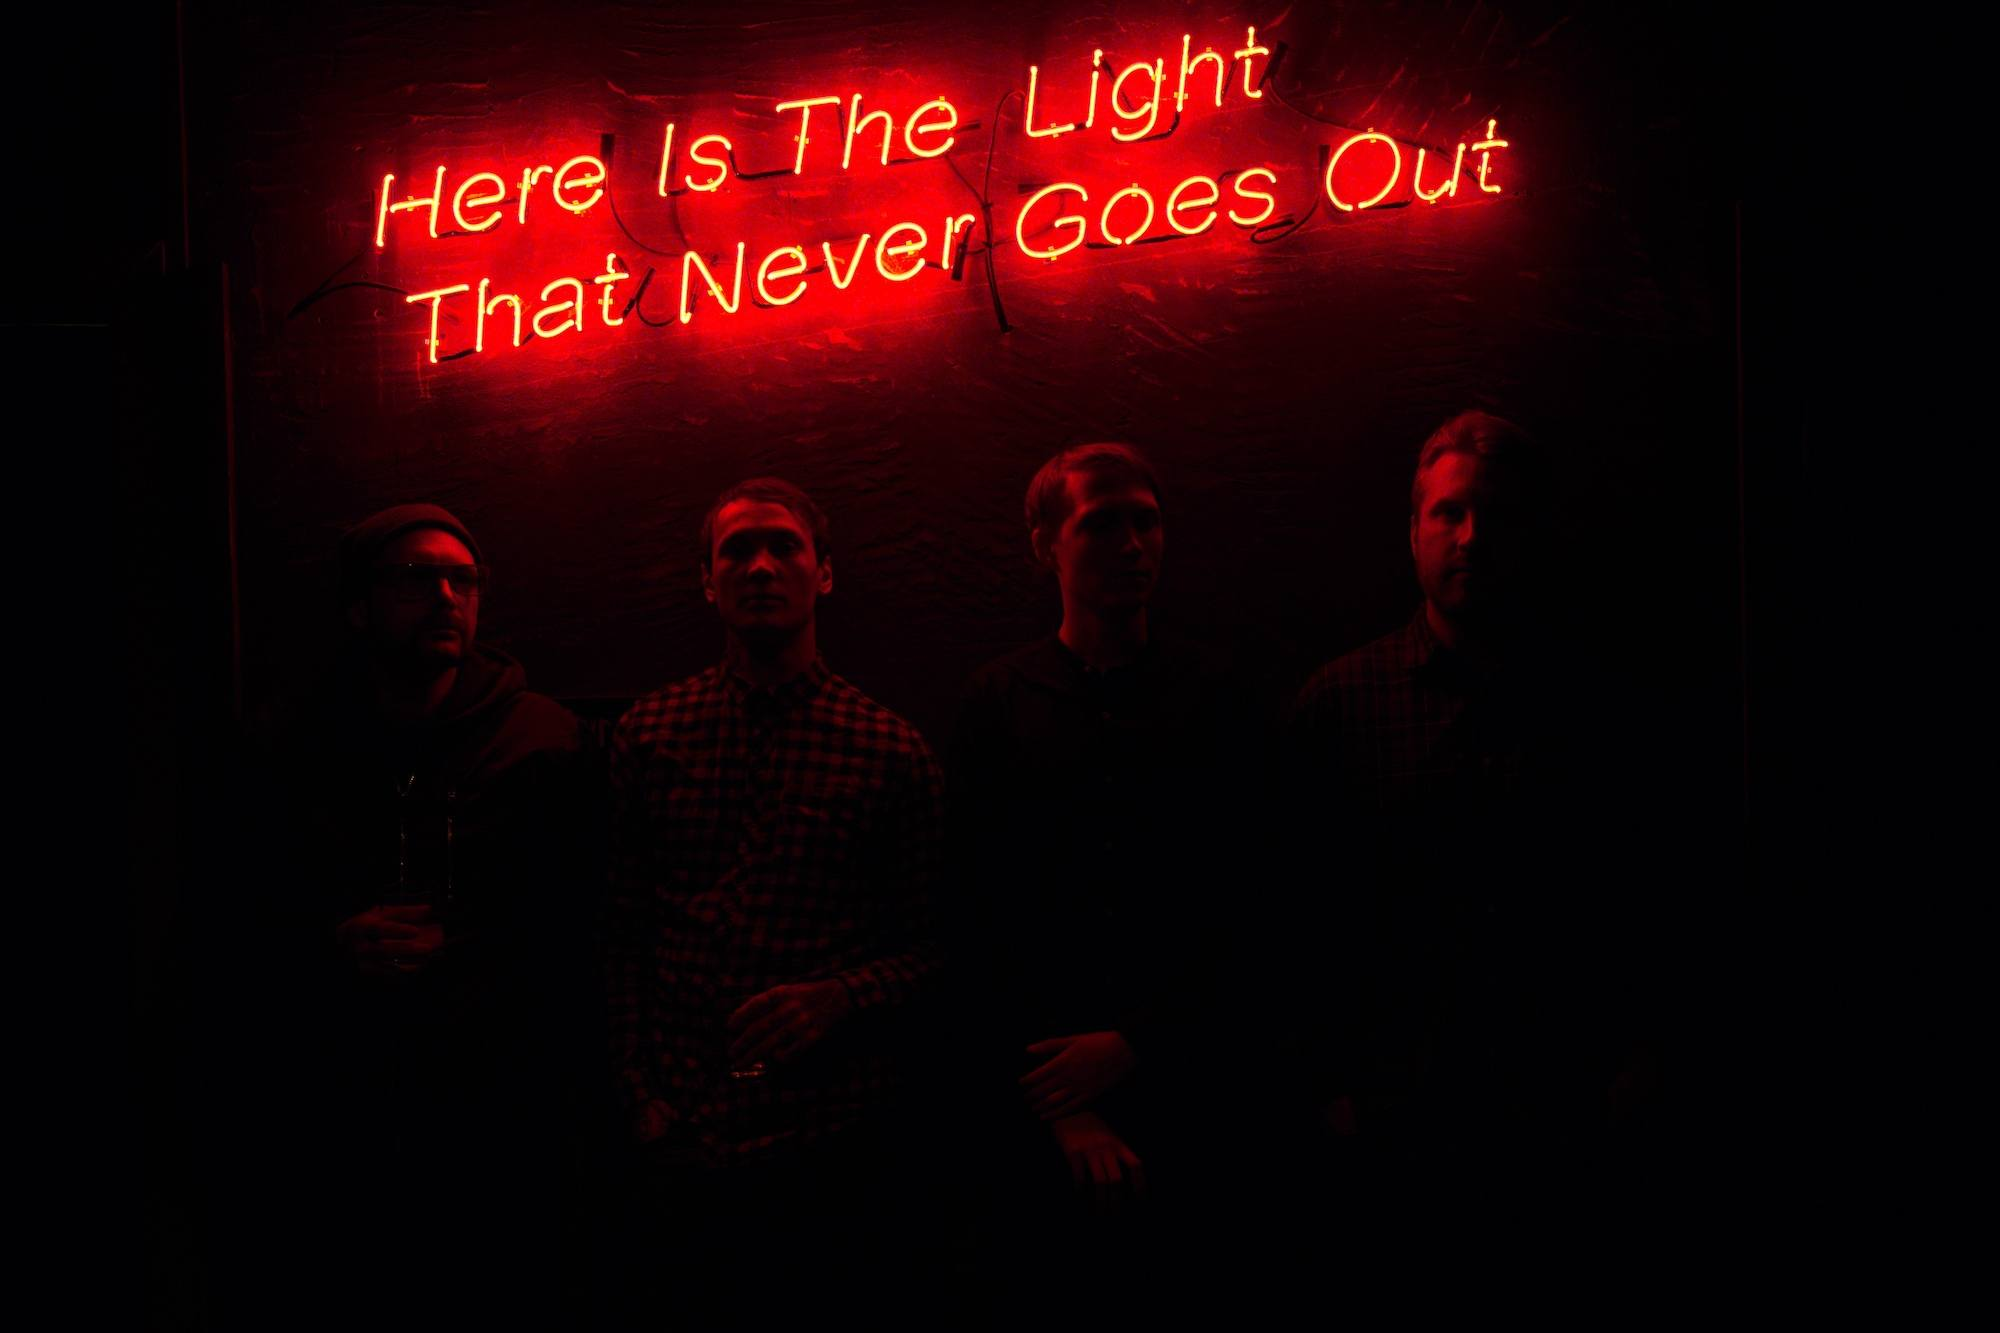
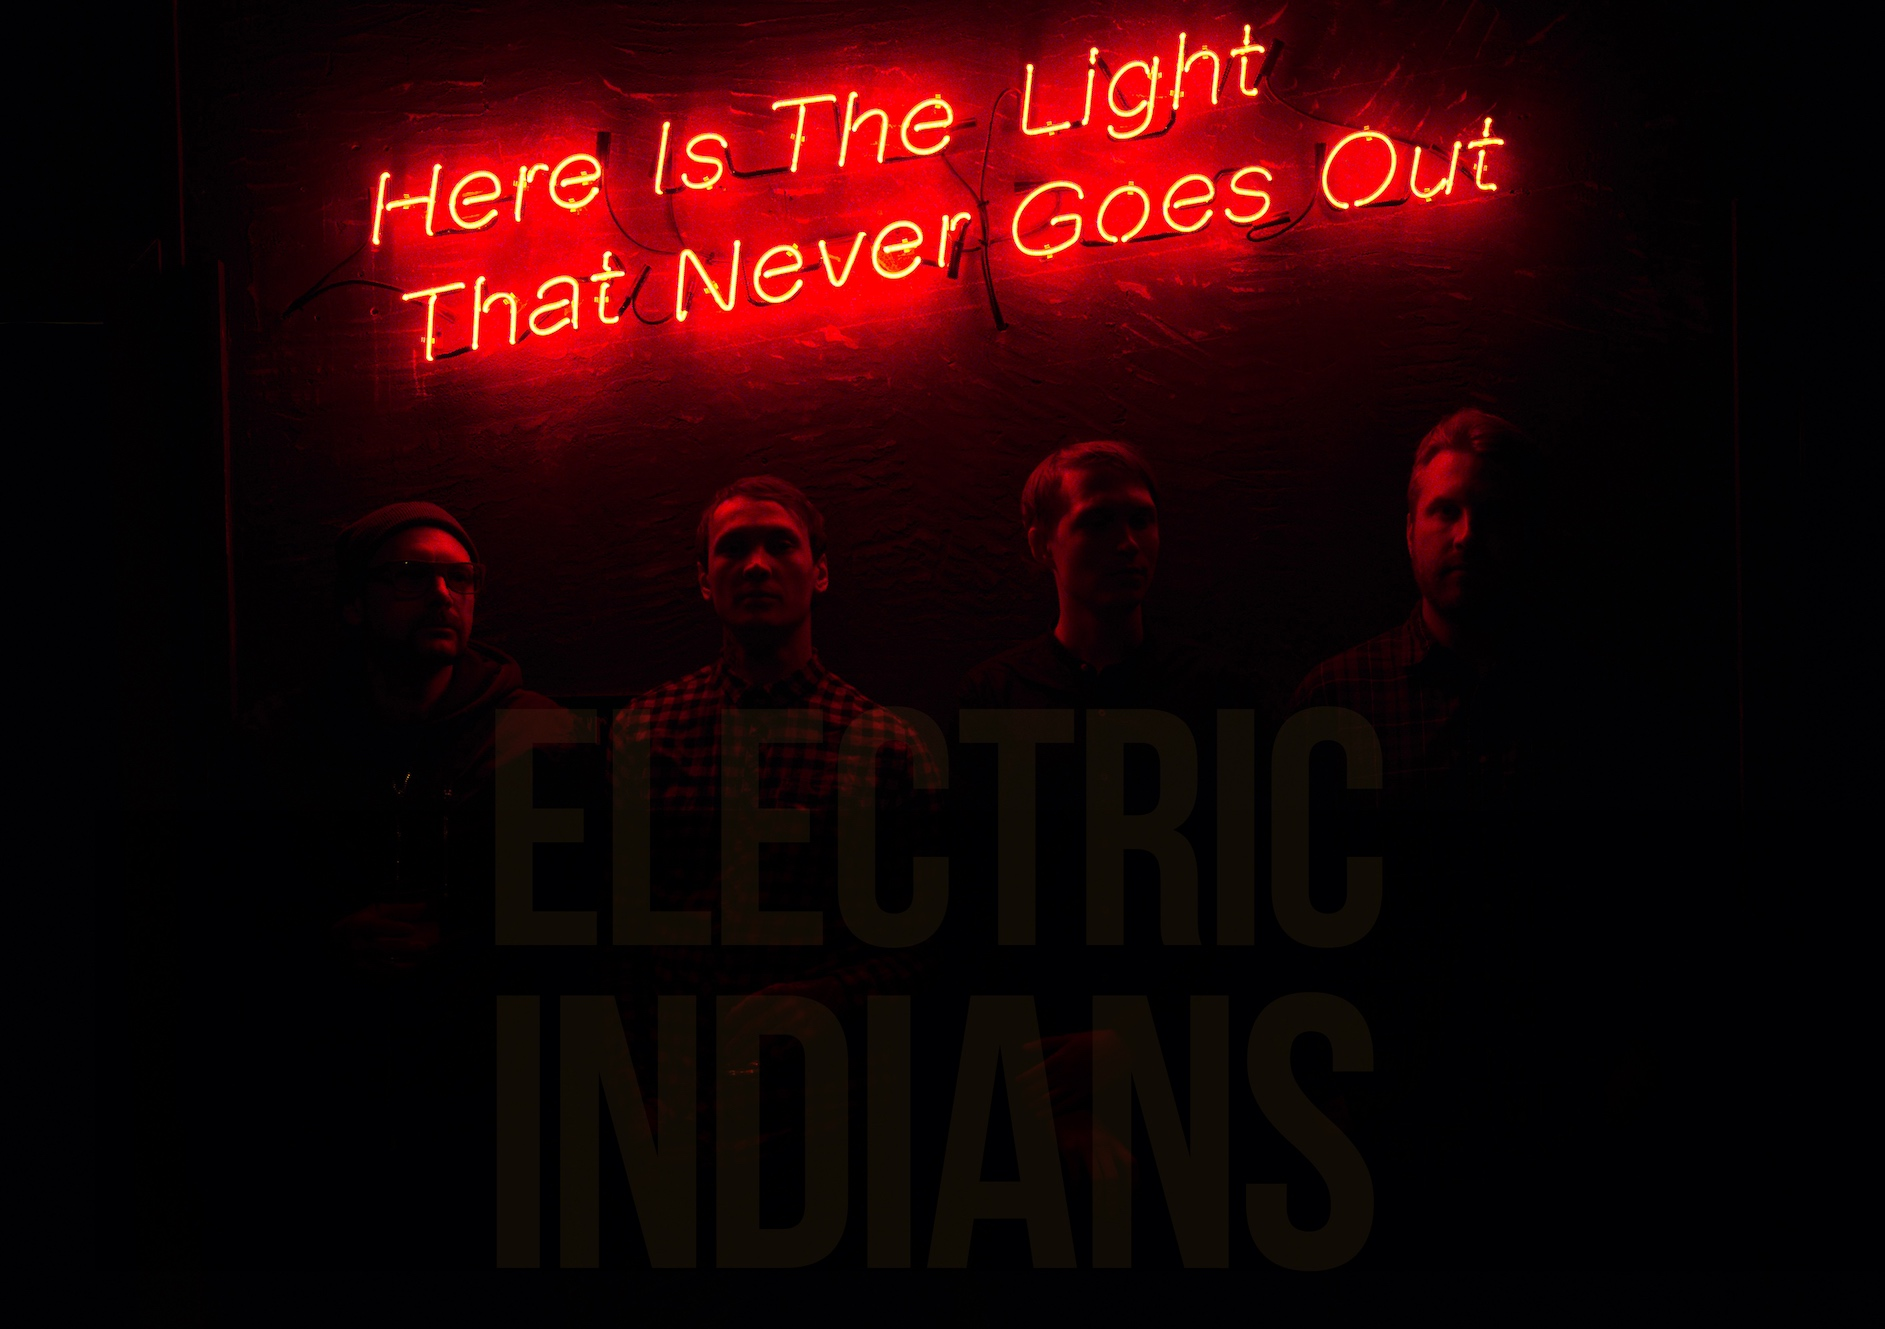
- Changed weclome bg, optimized header

diff --git a/src/components/Welcome/Welcome.js b/src/components/Welcome/Welcome.js
@@ -11,32 +11,36 @@ import { Container, Row } from "react-bootstrap";
 class Welcome extends Component {
   render() {
     return (
-      <div id="welcome" className="Welcome">
-        <Container>
-          <Row className="Welcome__logo-container align-content-center justify-content-around ">
-            <a href="https://www.instagram.com/electricindians/" target="blank">
-              <img className="Welcome__logo" src={instagram} />
-            </a>
-            <a href="https://www.facebook.com/electricindians/" target="blank">
-              <img className="Welcome__logo" src={facebook} />
-            </a>
-            <a href="https://vk.com/electricindians" target="blank">
-              <img className="Welcome__logo" src={vk} />
-            </a>
-            <a
-              href="https://www.youtube.com/channel/UCab_uVuxFhrwyARbotaz4Tg"
-              target="blank"
-            >
-              <img className="Welcome__logo" src={youtube} />
-            </a>
-            <a href="https://electricindians.bandcamp.com/" target="blank">
-              <img className="Welcome__logo" src={bandcamp} />
-            </a>
-            <a href="https://twitter.com/Electricindian2" target="blank">
-              <img className="Welcome__logo" src={twitter} />
-            </a>
-          </Row>
-        </Container>
+      <div>
+        <div id="welcome" className="Welcome">
+        </div>
+        <div className="Welcome__logo-container">
+          <Container >
+            <Row className="Welcome__logo-container-wrap align-content-center justify-content-around ">
+              <a href="https://www.instagram.com/electricindians/" target="blank">
+                <img className="Welcome__logo" src={instagram} />
+              </a>
+              <a href="https://www.facebook.com/electricindians/" target="blank">
+                <img className="Welcome__logo" src={facebook} />
+              </a>
+              <a href="https://vk.com/electricindians" target="blank">
+                <img className="Welcome__logo" src={vk} />
+              </a>
+              <a
+                href="https://www.youtube.com/channel/UCab_uVuxFhrwyARbotaz4Tg"
+                target="blank"
+              >
+                <img className="Welcome__logo" src={youtube} />
+              </a>
+              <a href="https://electricindians.bandcamp.com/" target="blank">
+                <img className="Welcome__logo" src={bandcamp} />
+              </a>
+              <a href="https://twitter.com/Electricindian2" target="blank">
+                <img className="Welcome__logo" src={twitter} />
+              </a>
+            </Row>
+          </Container>
+        </div>
       </div>
     );
   }

diff --git a/src/components/Header/Header.js b/src/components/Header/Header.js
@@ -14,37 +14,37 @@ class Header extends Component {
     return (
       <Navbar collapseOnSelect="true" fixed="top" expand="md" variant="dark">
         <Container>
-          <AnchorLink offset="100" href="#welcome">
-            <Nav.Link href="#welcome">
+          <AnchorLink offset="100" href="#welcome" className="Header__logo-container">
             <Navbar.Brand className="Header__logo" />
-            </Nav.Link>
           </AnchorLink>
           <Navbar.Toggle aria-controls="basic-navbar-nav" />
           <Navbar.Collapse id="basic-navbar-nav">
-            <Nav className="justify-content-around container-fluid mr-auto">
+            <Nav className=" justify-content-around align-items-center container-fluid">
               <Nav.Item>
-                <Nav.Link href="#band">
-                <AnchorLink href="#band">
+                <AnchorLink className="Header__link" href="#band">
                   Band
                 </AnchorLink>
-                </Nav.Link>
               </Nav.Item>
               <Nav.Item>
-                <AnchorLink href="#photo">
-                  <Nav.Link href="#photo">Photo</Nav.Link>
+                <AnchorLink className="Header__link" href="#photo">
+                  Photo
                 </AnchorLink>
               </Nav.Item>
               <Nav.Item>
-                <AnchorLink href="#shop">
-                  <Nav.Link href="#shop">Shop</Nav.Link>
+                <AnchorLink className="Header__link" href="#shop">
+                  Shop
                 </AnchorLink>
               </Nav.Item>
               <Nav.Item>
-                <AnchorLink href="#concerts">
-                  <Nav.Link href="#concerts">Gigs</Nav.Link>
+                <AnchorLink className="Header__link" href="#concerts">
+                  Gigs
                 </AnchorLink>
               </Nav.Item>
-              <NavDropdown title="Links" id="basic-nav-dropdown">
+              <NavDropdown
+                className="Header__link-dropdown"
+                title="Links"
+                id="basic-nav-dropdown"
+              >
                 <NavDropdown.Item
                   href="https://www.instagram.com/electricindians/"
                   target="blank"

diff --git a/src/components/Header/Header.css b/src/components/Header/Header.css
@@ -1,3 +1,7 @@
+.Header__logo-container {
+  display: flex;
+  align-items: center;
+}
 .Header__logo {
   background-image: url("../../media/BY_OUTgnFUs.jpg");
   background-size: 70px;
@@ -14,18 +18,22 @@
   box-shadow: 0 0 6px 5px white inset;
   transition: all 0.4s;
 }
-
-.navbar-dark .navbar-nav .nav-link,
-.dropdown-toggle .nav-link {
+.nav-item {
+  padding: 15px;
+}
+.Header__link,
+.navbar-dark .navbar-nav .nav-link  {
   text-transform: uppercase;
   color: #ffffff;
-  align-self: center;
-  padding: 15px;
   border-radius: 50%;
+}
+.Header__link:hover,
+.Header__link:focus {
+  text-decoration: none;
 }
 .navbar-dark .navbar-nav .nav-link:hover,
 .navbar-dark .navbar-nav .nav-link:focus {
-  color: #ffffff;
+  color: white;
 }
 .navbar-toggler {
   margin-right: 20px;
@@ -34,7 +42,7 @@
 .Header__container {
   background-color: black;
   box-shadow: 0 0 6px 5px white;
-  padding: 10px 40px;
+  padding: 20px 40px;
 }
 .navbar-toggler {
   margin: 0;

diff --git a/src/components/Welcome/Welcome.css b/src/components/Welcome/Welcome.css
@@ -7,12 +7,16 @@
      background-position: center;
      background-repeat: no-repeat;
      height: 80vw;
-     min-height: 84vh;
+     min-height: 70vh;
  }
  .Welcome .container {
      align-self: end;
  }
  .Welcome__logo-container {
+     background-color: black;
+     margin: -2px 0;
+ }
+ .Welcome__logo-container-wrap {
      height: 15vw;
      display: flex;
      flex-direction: row;
